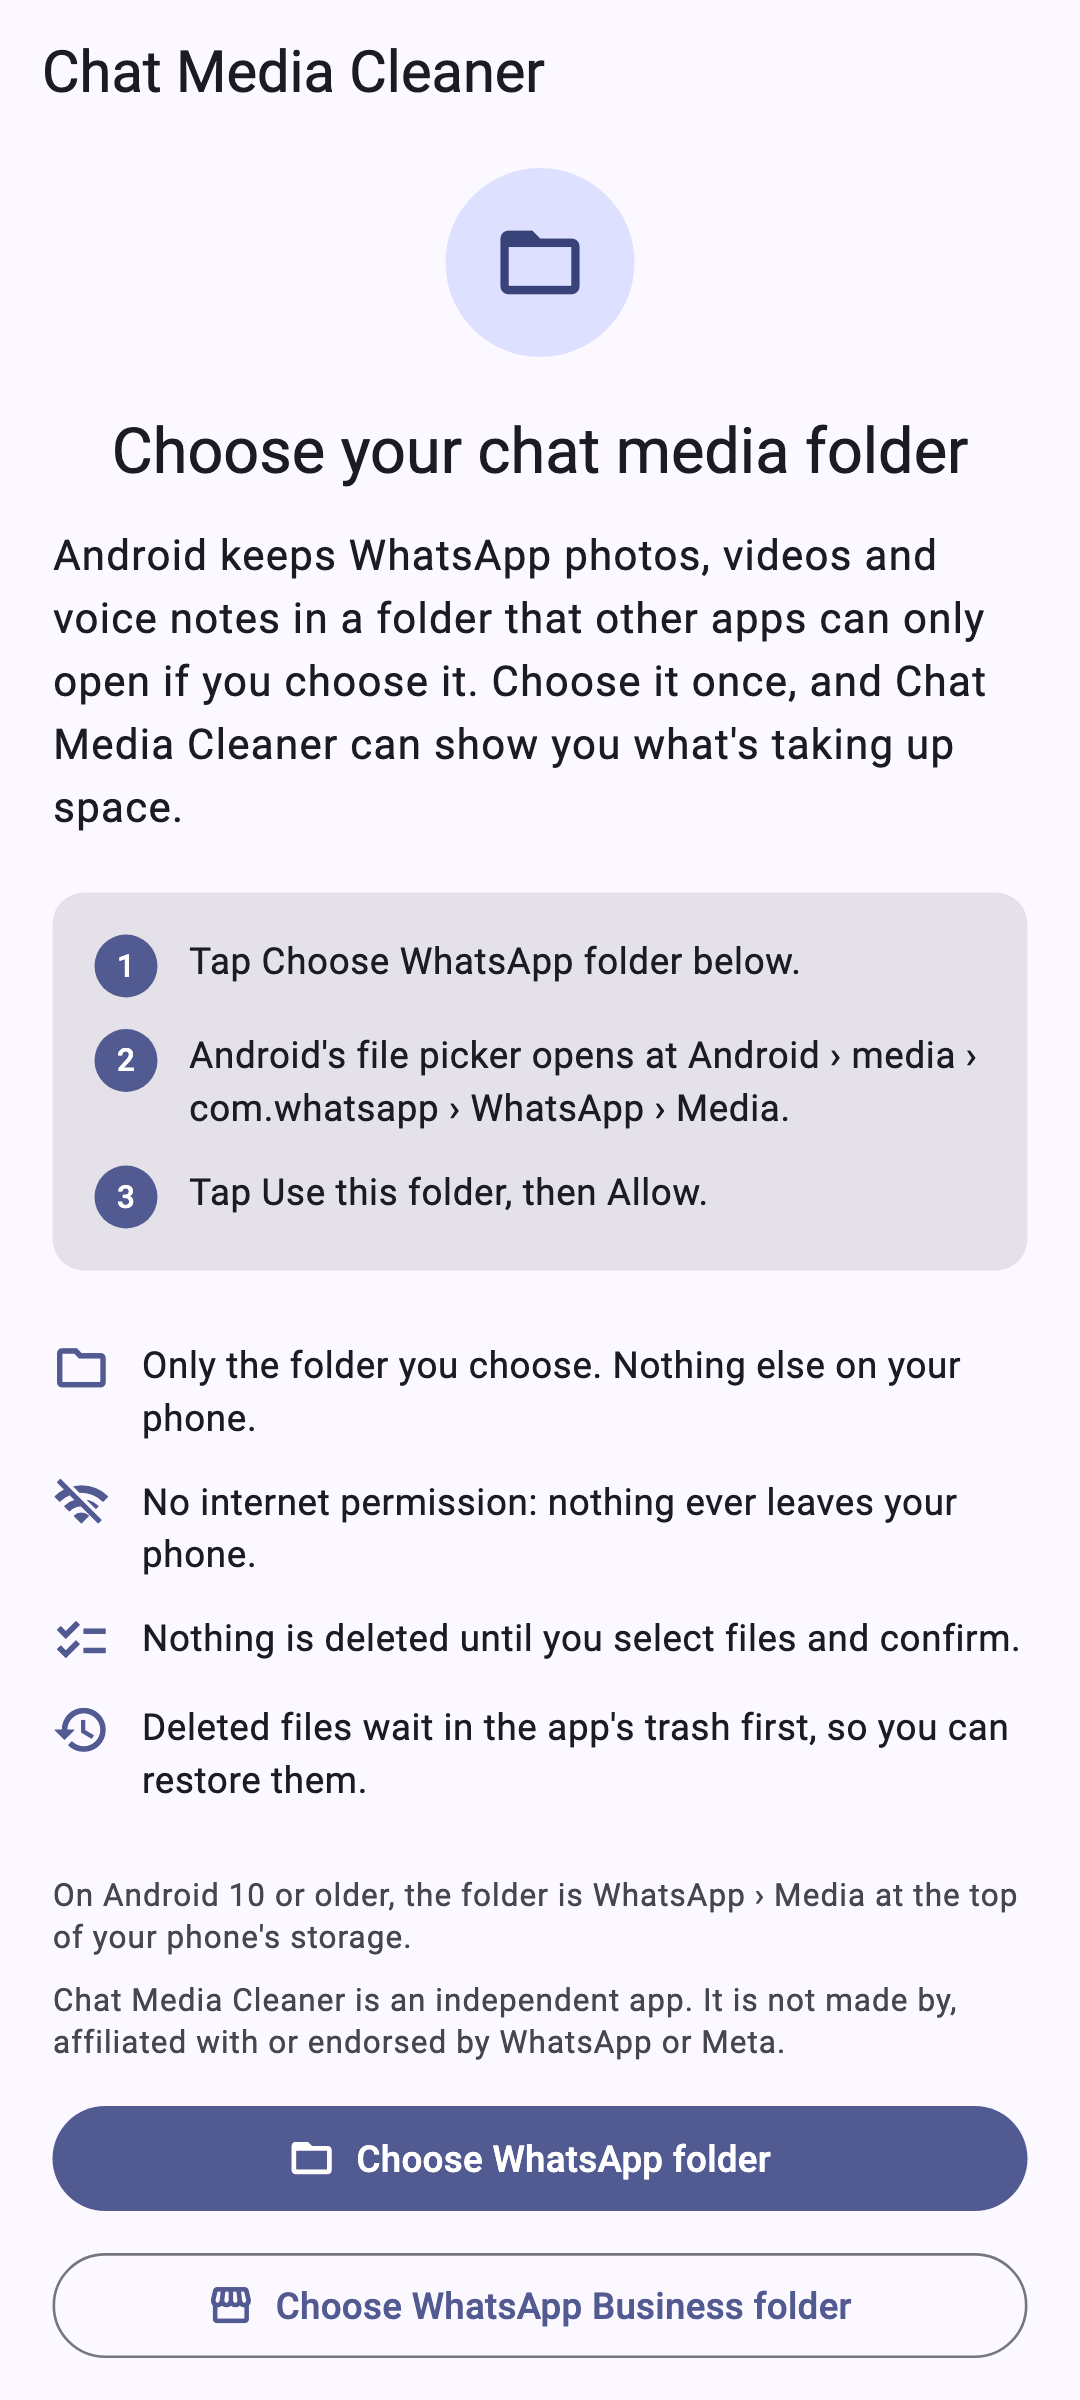
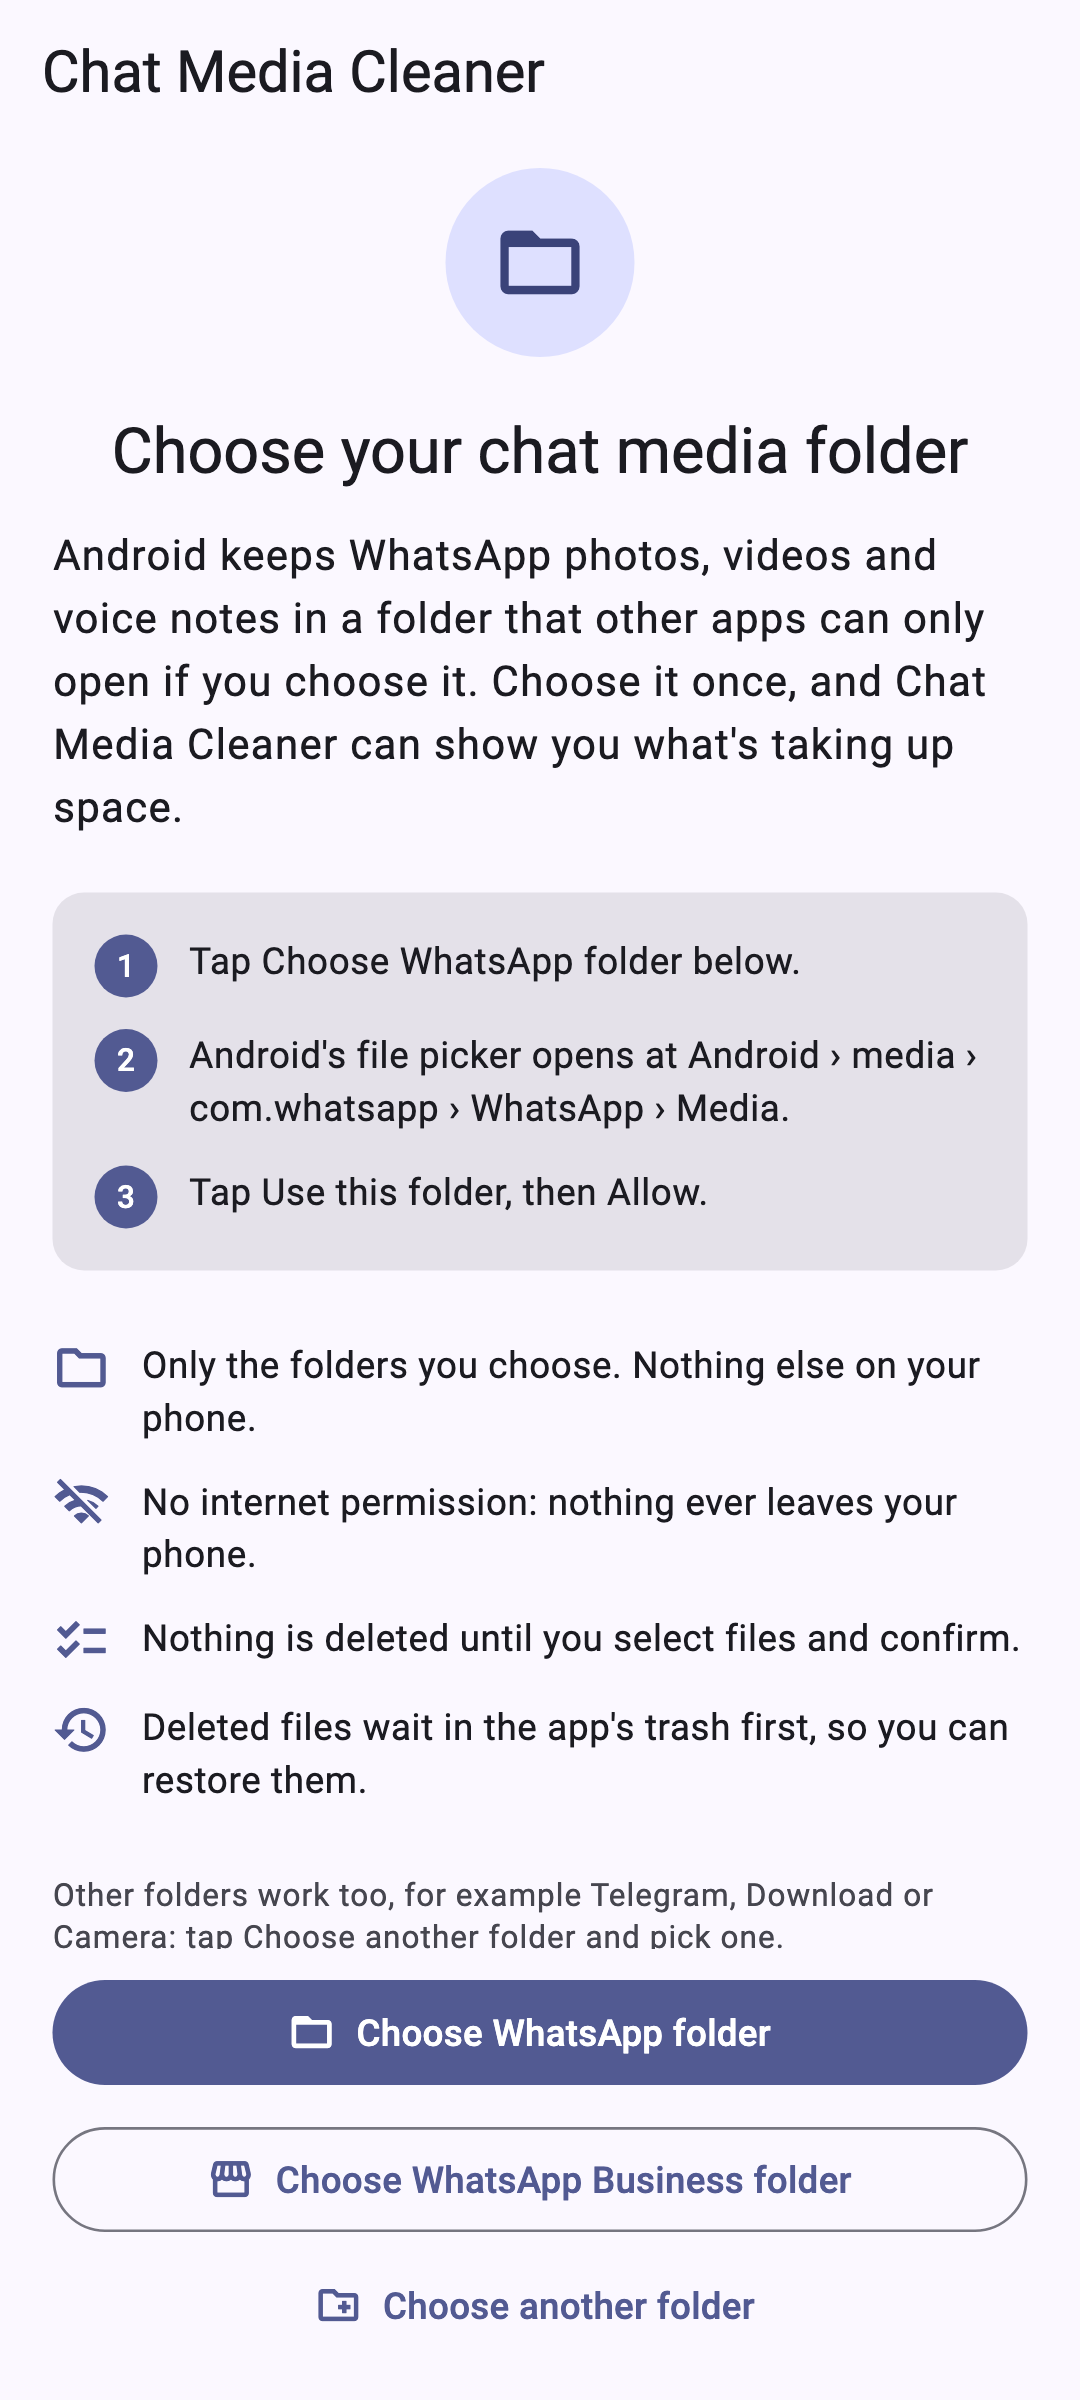
Describe the file browser and player in the README
Screenshots are regenerated with the new tab bar, plus one of the Files
tab and one of the player.

Changed region(s): [[0.0306, 0.7812, 0.9472, 0.9688], [0.55, 0.5625, 0.8861, 0.5938], [0.3667, 0.5625, 0.5194, 0.5938]]

diff --git a/test/tools/screenshots_test.dart b/test/tools/screenshots_test.dart
@@ -11,8 +11,10 @@ import 'package:chat_media_cleaner/features/trash/domain/trash_entry.dart';
 import 'package:flutter/material.dart';
 import 'package:flutter/services.dart';
 import 'package:flutter_test/flutter_test.dart';
+import 'package:video_player_platform_interface/video_player_platform_interface.dart';
 
 import '../support/fake_media_storage.dart';
+import '../support/fake_video_platform.dart';
 import '../support/test_app.dart';
 
 /// Renders the README screenshots into docs/screenshots/ with real fonts and
@@ -76,6 +78,49 @@ void main() {
     await app.pump(tester);
     await _shot('05_access');
   });
+
+  testWidgets('06 files', (tester) async {
+    final app = _app();
+    await app.pump(tester);
+    await tester.tap(find.byKey(const Key('scan')));
+    await tester.pumpAndSettle();
+    await _openFolder(tester, 'WhatsApp Images');
+    await _settleImages(tester);
+    await _shot('06_files');
+  });
+
+  testWidgets('07 player', (tester) async {
+    VideoPlayerPlatform.instance = FakeVideoPlatform()
+      ..duration = const Duration(minutes: 3, seconds: 42)
+      ..position = const Duration(minutes: 1, seconds: 8)
+      ..size = const Size(1080, 1920)
+      ..view = Image.memory(_photos[4], fit: BoxFit.cover);
+    final app = _app();
+    await app.pump(tester);
+    await _openFolder(tester, 'WhatsApp Video');
+    await tester.tap(find.text('VID-20260420-WA0013.mp4'));
+    await tester.pumpAndSettle();
+    // Let the position reach the screen, then pause on a brightness swipe.
+    await tester.pump(const Duration(seconds: 1));
+    final gesture = await tester.startGesture(const Offset(90, 520));
+    for (final step in [-30.0, -20.0, -40.0]) {
+      await gesture.moveBy(Offset(0, step));
+      await tester.pump();
+    }
+    await _settleImages(tester);
+    await _shot('07_player');
+    await gesture.up();
+    await tester.pump(const Duration(seconds: 1));
+  });
+}
+
+Future<void> _openFolder(WidgetTester tester, String folder) async {
+  await tester.tap(find.byKey(const Key('tab-files')));
+  await tester.pumpAndSettle();
+  await tester.tap(find.text('WhatsApp'));
+  await tester.pumpAndSettle();
+  await tester.tap(find.text(folder));
+  await tester.pumpAndSettle();
 }
 
 Future<void> _shot(String name) => expectLater(

diff --git a/README.md b/README.md
@@ -6,15 +6,19 @@
 ![Android 8+](https://img.shields.io/badge/Android-8.0%2B-3DDC84)
 [![License: MIT](https://img.shields.io/badge/license-MIT-green.svg)](LICENSE)
 
-**See which WhatsApp photos, videos and voice notes are filling your phone, and clear them safely.**
+**See which WhatsApp photos, videos and voice notes are filling your phone, look through them, and clear them safely.**
 
-Chat Media Cleaner scans the WhatsApp (and WhatsApp Business) media folder, shows what takes the most space, and groups the files you probably don't need: huge videos, the same meme saved five times, old forwards, copies of things you sent. You pick what goes. Deleted files wait in a trash for 7 days so you can change your mind. No internet permission, no account, no ads.
+Chat Media Cleaner scans the WhatsApp (and WhatsApp Business) media folder, shows what takes the most space, and groups the files you probably don't need: huge videos, the same meme saved five times, old forwards, copies of things you sent. You pick what goes. Deleted files wait in a trash for 7 days so you can change your mind.
+
+It is also a file manager for those folders: browse them, and open photos, videos, voice notes, PDFs and text files right in the app, with a full video player. No internet permission, no account, no ads.
 
 <p align="center">
   <img src="docs/screenshots/01_home.png" alt="Home screen: chat media split by type, with Largest files, Exact duplicates, Old forwards and memes, and Sent media copies groups" width="200">
   <img src="docs/screenshots/02_review.png" alt="Review grid of old forwards with thumbnails, sizes and five files selected" width="200">
   <img src="docs/screenshots/03_confirm.png" alt="Confirmation before moving 100 files (1.4 GB) to the trash" width="200">
   <img src="docs/screenshots/04_trash.png" alt="Trash with days left before each file is deleted for good, and Restore" width="200">
+  <img src="docs/screenshots/06_files.png" alt="Files tab inside WhatsApp Images: a Sent folder with its size, then photos with thumbnails, sizes and dates" width="200">
+  <img src="docs/screenshots/07_player.png" alt="Video player with previous, pause and next buttons, a scrub bar, and a brightness level shown while swiping" width="200">
 </p>
 
 ## Download
@@ -35,6 +39,40 @@ Open the file on your phone and allow installing from your browser or file manag
 2. Tap **Scan now**. The scan lists the folder, then compares files of the same size to find exact duplicates. You get the total, a breakdown by type (videos, images, voice notes, documents, stickers, GIFs, statuses) and the clean-up groups.
 3. Open a group, tap the files you want gone (touch and hold to preview), and tap **Move to trash**.
 4. Delete them right away to free the space, or leave them in the trash. Anything still there after 7 days (you can pick 1 to 30) is deleted for good the next time you open the app.
+5. Open the **Files** tab to browse the folder yourself and open anything in it.
+
+## Browse and open files
+
+The **Files** tab shows every folder you chose. Inside one you can:
+
+- walk through sub-folders (the path at the top takes you back up), **search** by name, **sort** by name, date or size, and switch between a list and a grid of pictures;
+- see how many files each folder holds and how big it is, once you have scanned;
+- tap a file to open it, or touch and hold to select several and **share** them or **move them to the trash**;
+- use a file's menu to **rename** it, see its **details** (size, date, type, pixel size, length), share it or open it in another app.
+
+What opens inside the app:
+
+| Kind | How |
+|---|---|
+| **Photos, stickers, GIFs** | Full screen. Pinch or double-tap to zoom, swipe for the next file. |
+| **Videos** | The player below. |
+| **Voice notes and audio** | Play, scrub, skip 10 seconds, speed. |
+| **PDFs** | Page by page. Pinch or double-tap to zoom. Password-protected PDFs are handed to another app. |
+| **Text** (notes, contacts, CSV, JSON, logs…) | The first 256 KB, selectable. |
+| Anything else | **Open with…** another app. |
+
+### Video player
+
+| Do this | To |
+|---|---|
+| Tap | Show or hide the controls |
+| Double-tap the left or right half | Skip 10 seconds back or forward |
+| Swipe up or down on the left half | Change the brightness |
+| Swipe up or down on the right half | Change the volume |
+| Swipe sideways | Scrub (the full width is 90 seconds) |
+| Touch and hold | Play at 2× until you let go |
+
+Buttons: previous and next file, **lock** (so a pocket or a child can't touch anything), mute, speed from 0.25× to 3×, picture size (fit, crop to fill, stretch), full screen, and a menu with repeat, a **sleep timer** and **save this frame as a photo**. A video you stopped part-way carries on from there next time. The screen stays on while a video plays.
 
 ## What it finds
 
@@ -52,20 +90,23 @@ Since Android 11, an app can't read another app's media folder on its own. Inste
 
 On Android 10 and older the folder is `WhatsApp/Media` at the top of your storage; the app accepts that layout too, and the WhatsApp Business folder (`com.whatsapp.w4b`).
 
-The app has **no storage permission and no `MANAGE_EXTERNAL_STORAGE`** in its manifest.
+**Choose another folder** adds any other folder the same way, for example Telegram, Download or Camera. Everything works there too, except that "Old forwards and memes" only ever lists files from chat app folders: an old photo in your camera folder is more likely one you took.
+
+The app has **no permissions at all** in its manifest: no storage permission, no `MANAGE_EXTERNAL_STORAGE`, no internet.
 
 ## Privacy
 
 - **No internet permission.** The app can't send anything anywhere, and has no analytics, ads or crash reporting.
-- A scan reads file names, sizes and dates. Photos and videos are only opened to draw thumbnails and previews on screen.
-- Settings and the trash list are stored in the app's private storage on your phone.
+- A scan reads file names, sizes and dates. Files are only opened to draw thumbnails and to show or play them on screen when you open them.
+- Sharing a file opens Android's share sheet; the app you pick there gets that file and nothing else.
+- Settings, the trash list and where you stopped each video are stored in the app's private storage on your phone.
 
 ## Safety
 
 - **Nothing is deleted unless you select it** and confirm. Groups are suggestions; nothing is pre-selected.
 - **Trash first.** "Move to trash" moves files into a hidden `.media-cleaner-trash` folder inside the media folder you chose, with a `.nomedia` file so galleries ignore it. Moving is instant and needs no extra space. **Restore** puts each file back in its original folder under its original name and date (or a numbered name if that name was taken meanwhile).
 - **Space is freed when the trash is emptied:** right after moving (if you choose *Delete now*), from the trash screen, or automatically once the restore window (7 days by default) has passed. The automatic clean-up runs when you open the app.
-- Deleting a file here removes it from your phone. WhatsApp will show those messages without their media, exactly as if you'd deleted the files in a file manager.
+- Deleting a file here removes it from your phone. WhatsApp will show those messages without their media, exactly as if you'd deleted the files in a file manager. The same goes for a file you rename: WhatsApp may no longer find it.
 
 ## Not affiliated
 
@@ -83,14 +124,18 @@ Flutter app with a small Kotlin layer for folder access. Pull requests are welco
 
 | Layer | What it does |
 | --- | --- |
-| [`StorageChannel.kt`](android/app/src/main/kotlin/dev/chandra/chat_media_cleaner/storage/StorageChannel.kt) | Storage Access Framework on background threads: folder picker with a persisted grant, listing folders (`DocumentsContract` queries), streaming SHA-256 of a file, thumbnails (provider thumbnail, video frame or sampled decode), moving files into and out of the trash (`moveDocument`, so no copying), opening a file in another app. |
+| [`StorageChannel.kt`](android/app/src/main/kotlin/dev/chandra/chat_media_cleaner/storage/StorageChannel.kt) | Storage Access Framework on background threads: folder picker with a persisted grant, listing folders (`DocumentsContract` queries), streaming SHA-256 of a file, thumbnails (provider thumbnail, video frame or sampled decode), moving files into and out of the trash (`moveDocument`, so no copying), renaming, sharing and opening a file in another app. Also PDF pages (`PdfRenderer`), picture size and length of media, saving a video frame, and the window brightness and media volume for the player. |
 | [`MediaStorage`](lib/features/media/domain/media_storage.dart) | The Dart interface over that platform code; tests use an in-memory fake file tree. |
 | [`SourceLocator`](lib/features/media/domain/media_source.dart) | Knows the modern and legacy WhatsApp / WhatsApp Business paths, opens the picker in the right place and finds the `Media` folder inside whatever was picked. |
 | [`MediaScanner`](lib/features/media/domain/media_scanner.dart) | Walks the folder tree with progress and cancel, skipping the trash and `.nomedia` files. |
 | [`DuplicateFinder`](lib/features/media/domain/duplicate_finder.dart) | Groups files by size, hashes only those that share a size (SHA-256 in Kotlin, two at a time), groups by hash within each folder, keeps the oldest of each set. Sets are re-checked whenever files are trashed or restored, so one copy always stays. |
 | [`MediaClassifier`](lib/features/media/domain/media_type.dart) / [`MediaAnalyzer`](lib/features/media/domain/media_report.dart) | Type from the WhatsApp folder name (with a MIME fallback), totals by type, and the smart groups and age rule. |
 | [`TrashRepository`](lib/features/trash/domain/trash_repository.dart) | Trash bookkeeping: move, restore (with name clashes and missing folders), delete for good, expiry. The index is a JSON file in app storage. |
-| Flutter UI | Riverpod 3 controllers per screen; folder explainer, home, review grid, preview, trash and settings; light and dark themes. |
+| [`FolderListing` / `BrowseOrder`](lib/features/browse/domain/browse_entry.dart) | The Files tab: one folder's contents read live, ordered and searched, with folder totals taken from the last scan. |
+| [`ViewKinds`](lib/features/viewer/domain/view_kind.dart) | Decides from extension and MIME type whether a file is shown as a picture, video, sound, PDF or text. |
+| [`ViewerScreen`](lib/features/viewer/presentation/viewer_screen.dart) | One swipeable page per file. Video and audio play through [`video_player`](https://pub.dev/packages/video_player) (ExoPlayer) straight from the `content://` address; [`VideoControls`](lib/features/viewer/presentation/player_controls.dart) adds the gestures. |
+| [`PlaybackPositions`](lib/features/viewer/domain/playback_positions.dart) | Where each video was stopped, for the 200 most recent. |
+| Flutter UI | Riverpod 3 controllers per screen; folder explainer, home, review grid, file browser, viewer, trash and settings; light and dark themes. |
 
 ### Build and test
 
